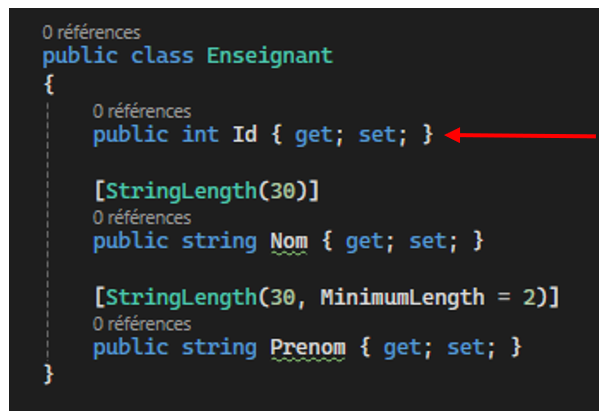
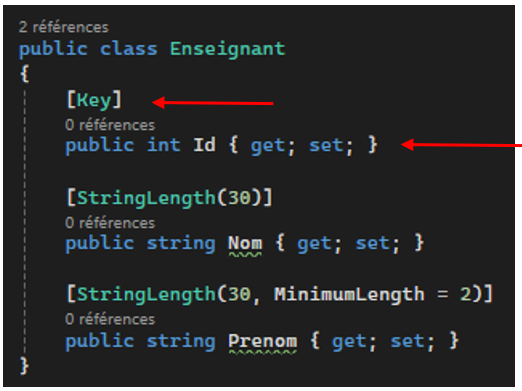
MAJ R11, ajout annotations Key et foreign key dans les modèles de l'exemple

Changed region(s): [[0.1226, 0.4297, 0.9502, 0.9207], [0.0, 0.0, 1.0, 1.0], [0.1226, 0.2148, 1.0, 0.399]]

diff --git a/web/docs/01-cours/11-rencontre11.md b/web/docs/01-cours/11-rencontre11.md
@@ -244,7 +244,7 @@ Dans l'application, faire un clic droit sur le **répertoire Models pour ajouter
 
 
 ### Étape 3. Ajouter la clé primaire dans chacun des modèles : 
-- Dans l'exemple suivant, nous avons ajouté la **clé primaire Id au modèle Enseignant**. Il faut le faire pour tous les modèles. 
+- Dans l'exemple suivant, nous avons ajouté la **clé primaire Id au modèle Enseignant et l'annotation [key]**. Il faut le faire pour tous les modèles. 
 
 ![alt text](../../static/img/Img_Traduction_Modele_Classe/Cle_primaire.png)
 
@@ -285,6 +285,7 @@ Dans l'application, faire un clic droit sur le **répertoire Models pour ajouter
 - Dans le diagramme nous avons une relation **Un à Un** entre les modèles **Etudiant** et **CarteEtudiante**. 
 
  ![alt text](../../static/img/Img_Traduction_Modele_Classe/Un_a_Un.png)
+ ![alt text](../../static/img/Img_Traduction_Modele_Classe/Un_Un_Clé_Étrangère.png)
 
  ---
 
